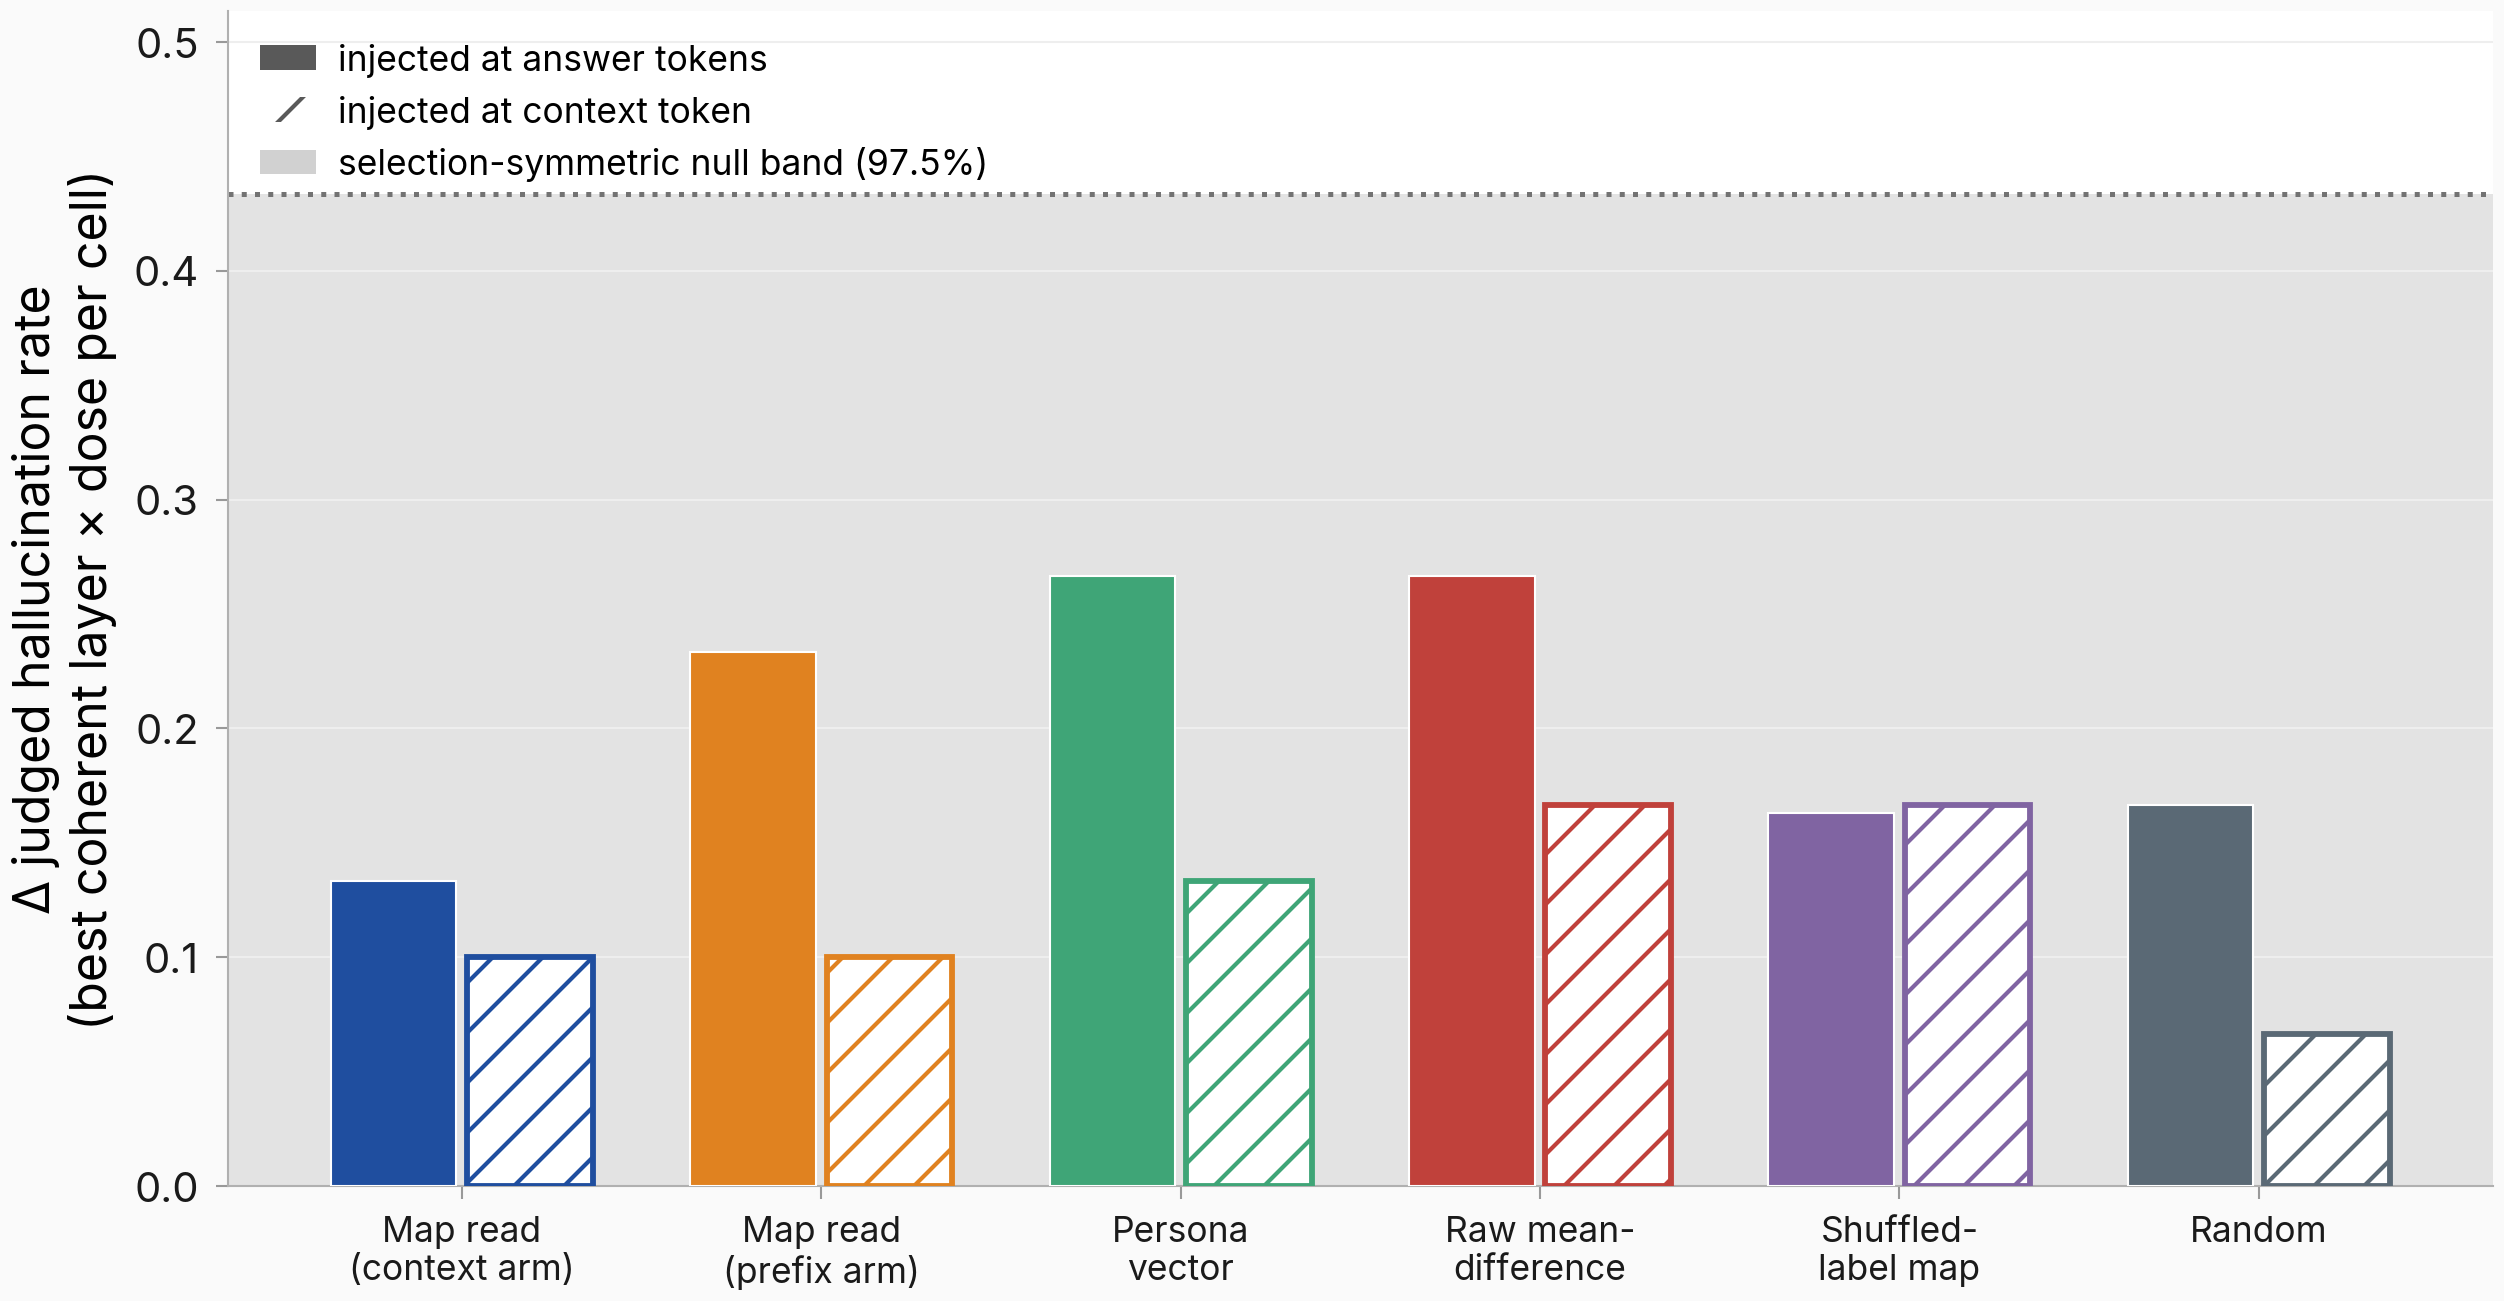
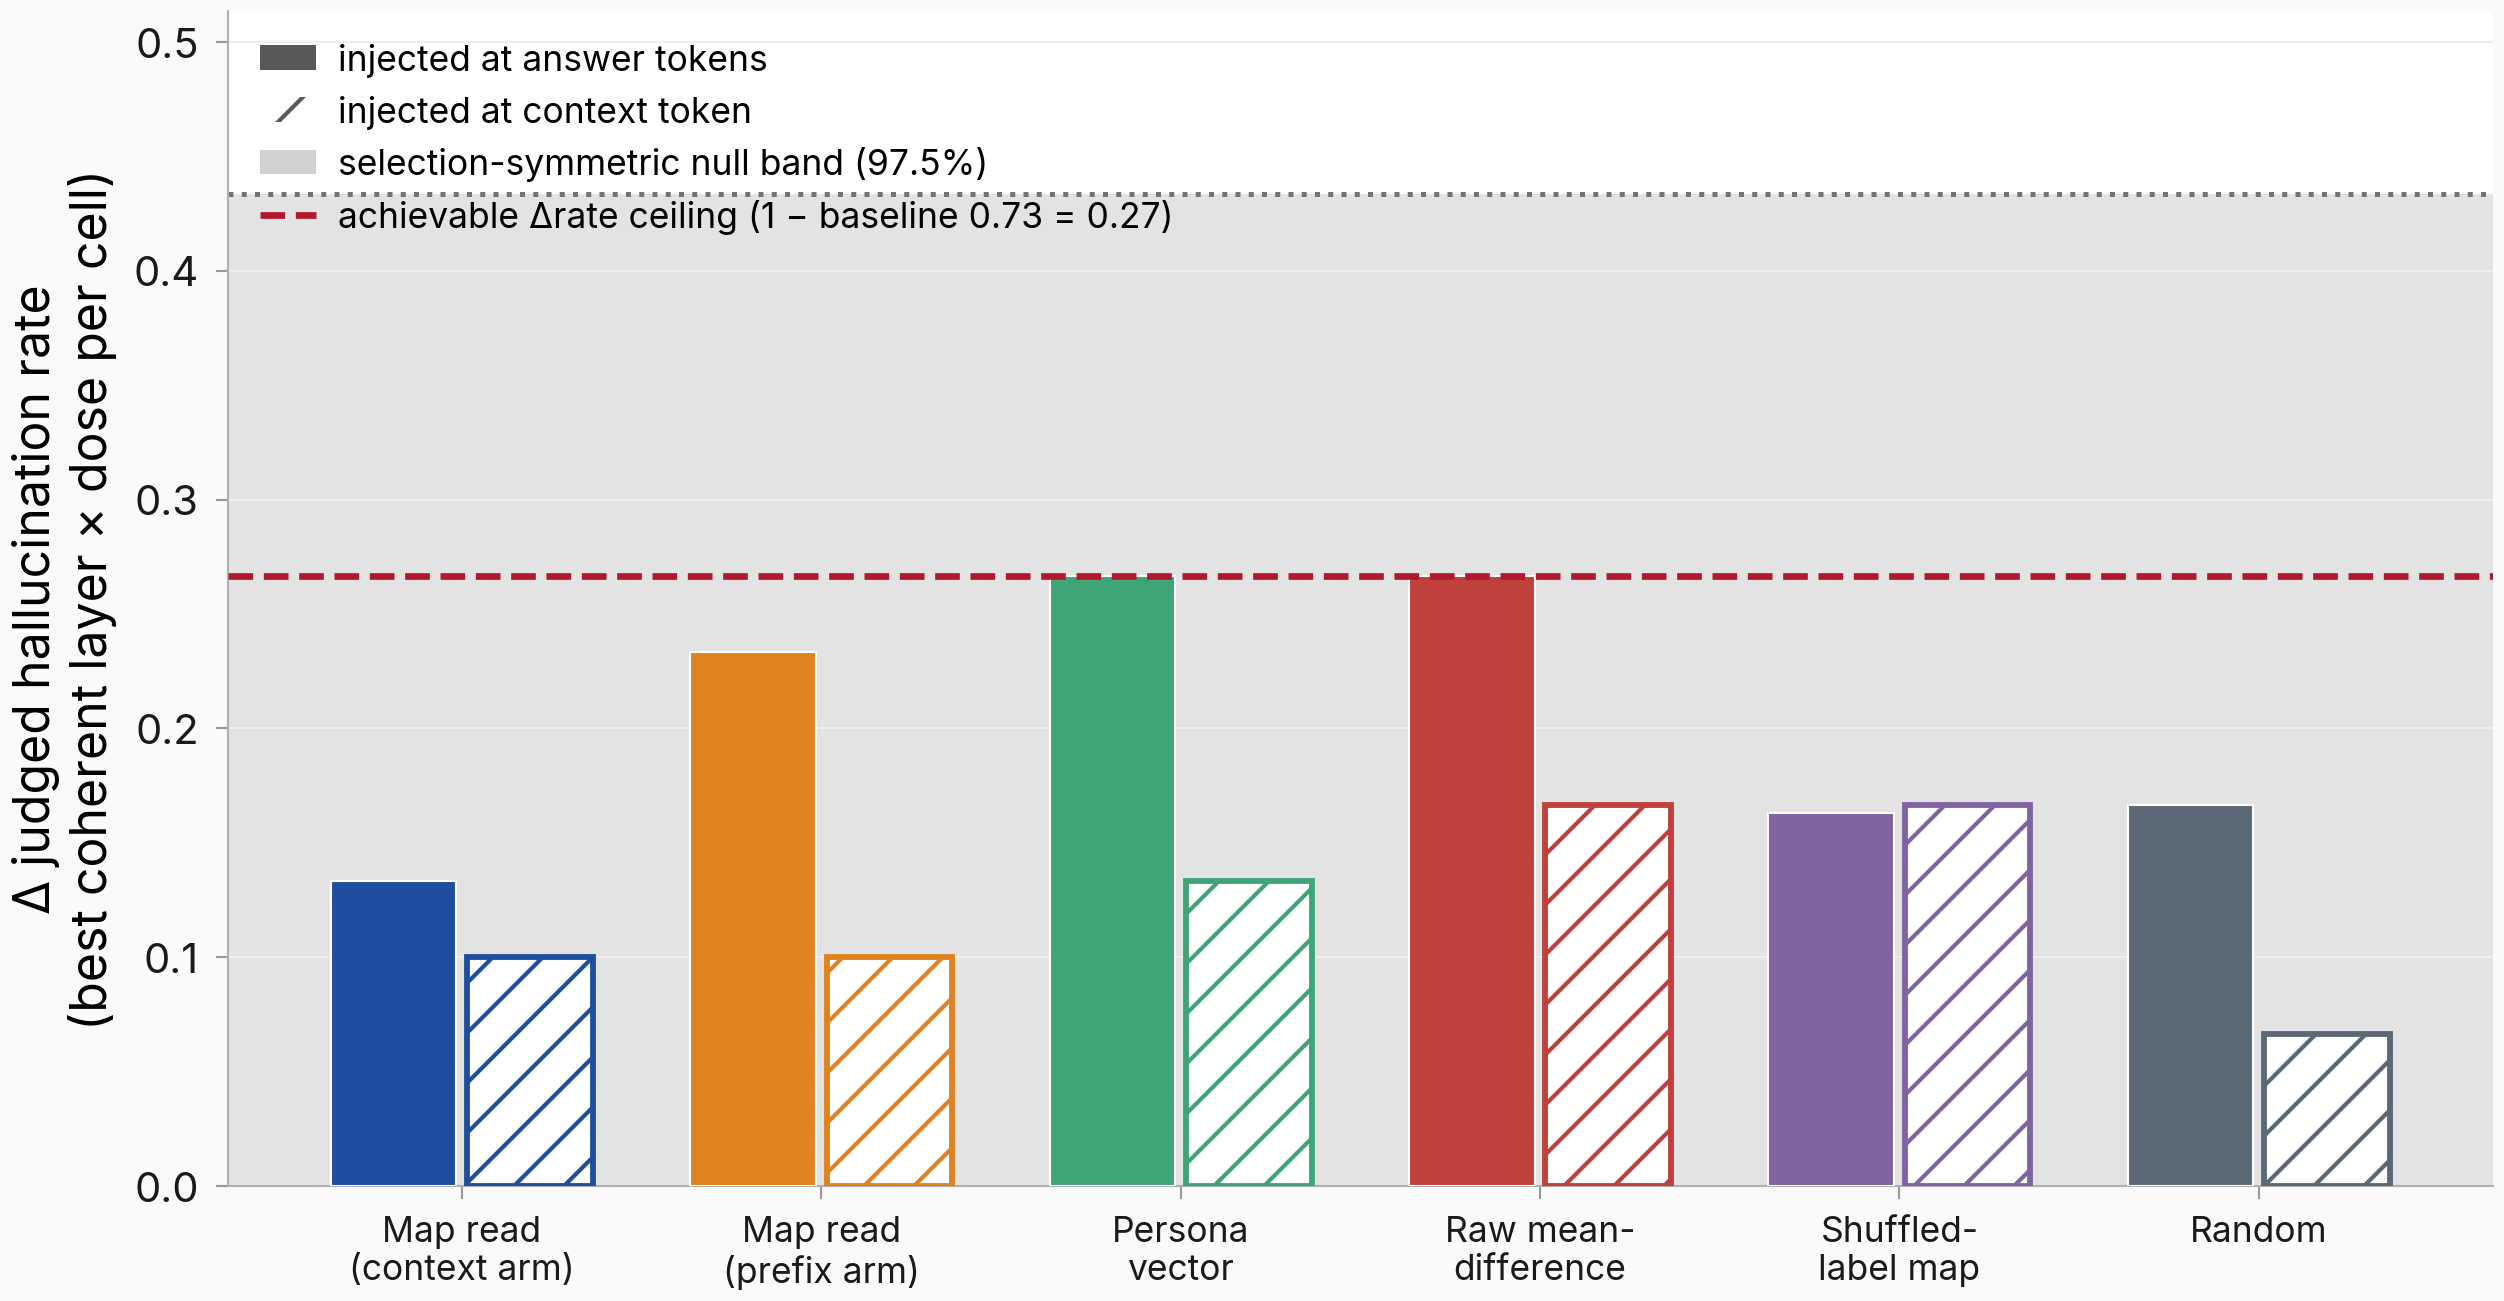
task #2220: interp round 2 — hallucination gate2 achievable-ceiling overlay + held-out-freeze sensitivity artifact
- fig_hallu_gate: draw the plan-registered achievable-delta ceiling (1 - 0.733 baseline = 0.267) as a dashed line + legend entry; re-rendered PNG/PDF/meta
- analyzer/heldout_sensitivity.json: decisive verdict recomputed on the 10 questions disjoint from the localize operating-point-selection subset (verdicts unchanged; evil map-read residual concentrates there, CI still reaching 0)

Changed region(s): [[0.0935, 0.4304, 0.9968, 0.4612], [0.1246, 0.1537, 0.4673, 0.1845]]

diff --git a/scripts/issue2220_readwrite_figs.py b/scripts/issue2220_readwrite_figs.py
@@ -217,10 +217,16 @@ def fig_dose_grid(localize: dict) -> None:
 def fig_hallu_gate(localize: dict, op: dict) -> None:
     nb = localize["reduced"]["null_band"]["hallucination"]
     cells = op["hallucination"]
+    pc = localize["per_cell"]
+    a0_keys = [k for k in pc if k.startswith("behaviorhallucination__directionalpha0__")]
+    assert len(a0_keys) == 1, a0_keys
+    base_rate = pc[a0_keys[0]]["rate"]  # un-steered baseline hallucination rate (0.733)
+    ceiling = 1.0 - base_rate  # max achievable delta-rate (plan § Statistics overlay)
     fig, ax = plt.subplots(figsize=(8.6, 4.6))
     edge = nb["upper_edge_boot97p5"]
     ax.axhspan(0, edge, color="0.82", alpha=0.6, zorder=0)
     ax.axhline(edge, color="0.45", linestyle=":", linewidth=1.2, zorder=1)
+    ax.axhline(ceiling, color="#b2182b", linestyle="--", linewidth=1.6, zorder=4)
     width = 0.38
     for di, d in enumerate(DIRS):
         for pi, pos in enumerate(POS):
@@ -231,12 +237,21 @@ def fig_hallu_gate(localize: dict, op: dict) -> None:
     ax.set_xticklabels([DIR_LABEL[d] for d in DIRS], fontsize=8.5)
     ax.set_ylabel("Δ judged hallucination rate\n(best coherent layer × dose per cell)")
     ax.set_ylim(0, max(0.5, edge + 0.08))
+    from matplotlib.lines import Line2D
     from matplotlib.patches import Patch
 
     handles = [
         Patch(facecolor="0.35", edgecolor="white", label="injected at answer tokens"),
         Patch(facecolor="white", edgecolor="0.35", hatch="//", label="injected at context token"),
         Patch(facecolor="0.82", edgecolor="0.45", label="selection-symmetric null band (97.5%)"),
+        Line2D(
+            [0],
+            [0],
+            color="#b2182b",
+            linestyle="--",
+            linewidth=1.6,
+            label=f"achievable Δrate ceiling (1 − baseline {base_rate:.2f} = {ceiling:.2f})",
+        ),
     ]
     ax.legend(handles=handles, loc="upper left", fontsize=8.5, frameon=False)
     fig.tight_layout()
